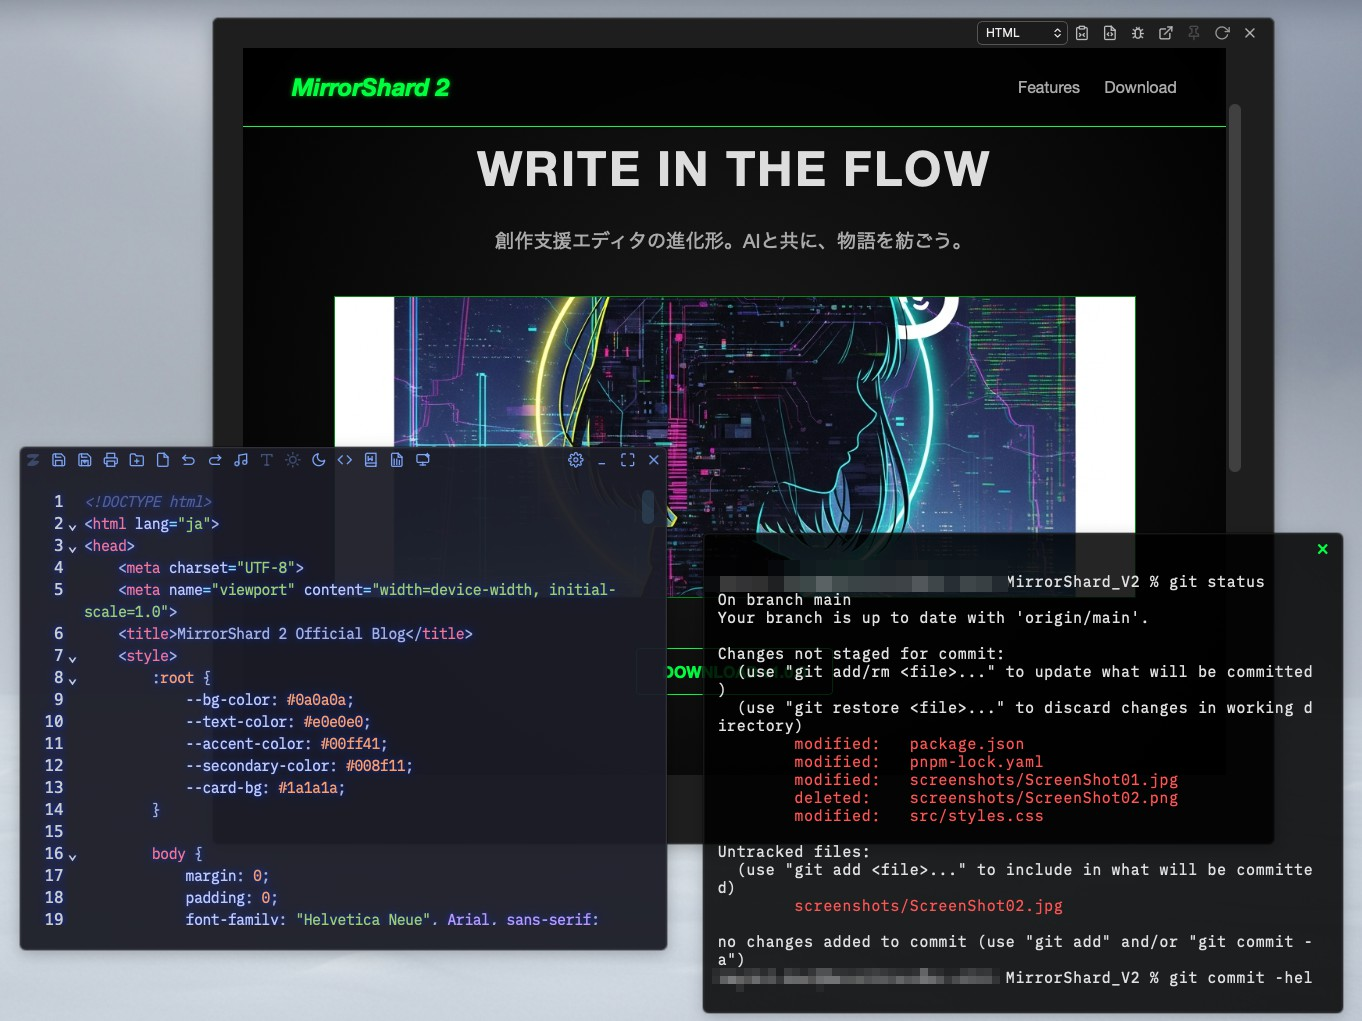
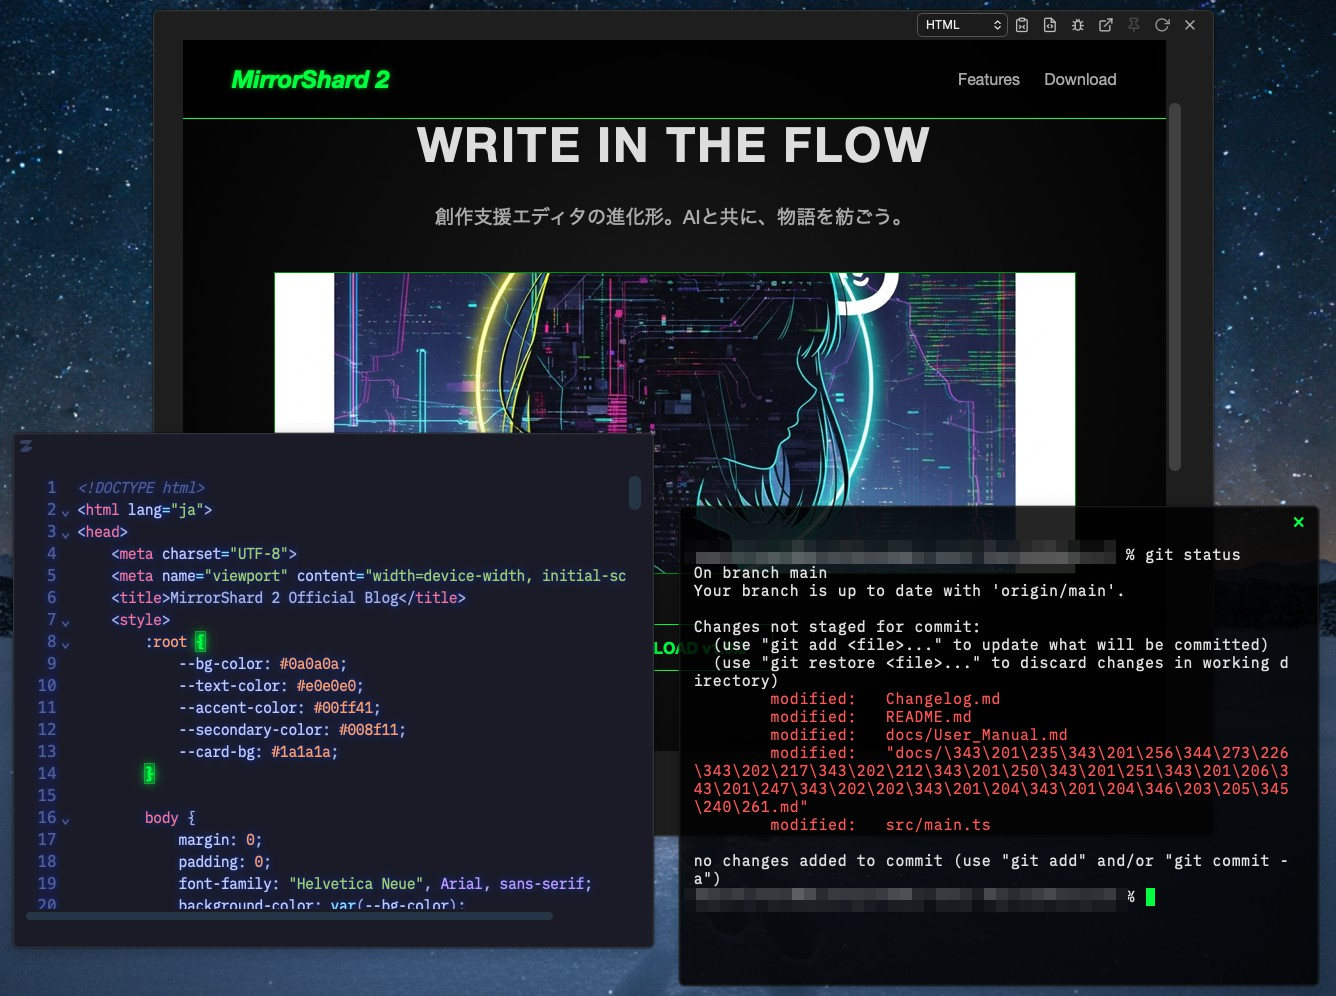
feat: Release version 1.2.0

diff --git a/src/main.ts b/src/main.ts
@@ -2249,6 +2249,47 @@ class App {
         e.stopPropagation();
       }
     }, true);
+
+    // --- 3. Safari用：スクロールバー使用時のバグ対策 ---
+    const isMac = this.currentOs === 'macos';
+    if (isMac && this.editorContainer) {
+      // キャプチャフェーズ (true) で、CodeMirrorが処理するより先に介入する
+      this.editorContainer.addEventListener('mousedown', (e) => {
+        // 左クリック以外、または Shiftキー押し(意図的な範囲選択) なら何もしない
+        if (e.button !== 0 || e.shiftKey) return;
+        if (!this.editorView) return;
+
+        // 1. スクロールバー領域のクリックなら無視
+        const scroller = this.editorView.scrollDOM;
+        const rect = scroller.getBoundingClientRect();
+        const scrollbarWidth = 18;
+        const isOnVerticalScrollbar = e.clientX >= rect.right - scrollbarWidth;
+        const isOnHorizontalScrollbar = e.clientY >= rect.bottom - scrollbarWidth;
+        if (isOnVerticalScrollbar || isOnHorizontalScrollbar) return;
+
+        // 2. ネイティブ機能でクリック位置を特定
+        if (document.caretRangeFromPoint) {
+          const range = document.caretRangeFromPoint(e.clientX, e.clientY);
+
+          if (range && this.editorView.contentDOM.contains(range.startContainer)) {
+            const clickPos = this.editorView.posAtDOM(range.startContainer, range.startOffset);
+
+            if (clickPos !== null) {
+              // Safariがバグる前に、CodeMirrorに正しいカーソル位置を強制セットする
+              this.editorView.dispatch({
+                selection: { anchor: clickPos, head: clickPos },
+                scrollIntoView: false, // 勝手なスクロールを防ぐ
+                userEvent: "select.pointer"
+              });
+
+              // Safariが保持している「古い選択状態」を念のためクリア
+              window.getSelection()?.removeAllRanges();
+            }
+          }
+        }
+      }, true);
+    }
+
   }
 
   // --- イベントハンドラ ---
@@ -2446,7 +2487,7 @@ class App {
       e.preventDefault();
       invoke('open_terminal_window');
     }
-    if (isCtrlOrCmd && key === '@' && isShift) {
+    if ((isCtrlOrCmd && key === '`' && isShift) || (isCtrlOrCmd && key === '@' && isShift)) {
       e.preventDefault();
       this.openTerminalHere();
     }

diff --git a/README.md b/README.md
@@ -1,7 +1,7 @@
-# MirrorShard 2 ver. 1.1.0  
+# MirrorShard 2 ver. 1.2.0  
 
 創作支援用テキストエディタ「MirrorShard」の改良版です。  
-ソフトウェアフレームワークをTauriに変更することで、起動の高速化とメモリ消費量の削減に成功。さらにファイルサイズは前作の20分の1程度にまで激減しています。  
+ソフトウェアフレームワークをTauriに変更することで、起動の高速化とメモリ消費量の削減に成功。さらに配布バイナリのファイルサイズは前作の30分の1程度にまで大幅に削減されています。  
 アイデアプロセッサ機能は未搭載ですが、代わりにAI機能を大幅に強化。メインウィンドウにもAI機能が搭載され、カーソル位置からの執筆、コード補完、選択範囲の要約/リライト/翻訳が可能に。  
 加えてマークダウン／HTMLプレビュー機能とコードエディタモードを追加、より汎用性の高いエディタとして生まれ変わりました。  
 
@@ -12,16 +12,16 @@
 ## ダウンロード  
 
 [![Windows](https://img.shields.io/badge/Download-Windows-blue)]  
-(https://github.com/DroicheadNua/MirrorShard_2/releases/download/v1.1.0/MirrorShard.2_1.1.0_x64_ja-JP.msi)  
+(https://github.com/DroicheadNua/MirrorShard_2/releases/download/v1.2.0/MirrorShard.2_1.2.0_x64_ja-JP.msi)  
 [![Mac (Apple Silicon)](https://img.shields.io/badge/Download-Mac_(Apple_Silicon)-green)]  
-(https://github.com/DroicheadNua/MirrorShard_2/releases/download/v1.1.0/MirrorShard.2_1.1.0_aarch64.dmg)  
+(https://github.com/DroicheadNua/MirrorShard_2/releases/download/v1.2.0/MirrorShard.2_1.2.0_aarch64.dmg)  
 
 または、[最新のリリース一覧ページ](https://github.com/DroicheadNua/MirrorShard_2/releases/latest)からダウンロードできます。  
 最下段の「Assets」の項目が折りたたまれている場合は、▶マークを押して展開してください。    
 
 ## 既知の問題 (Known Issues)  
 
-現在、v1.1.0において以下の問題が確認されています。  
+現在、v1.2.0において以下の問題が確認されています。  
 
 ### Windows版  
 - ATOK 2017などの旧バージョンのATOKを使用している環境において、変換中のアンダーラインや文節区切りが表示されない現象が確認されています。  
@@ -29,7 +29,7 @@
   （※最新のATOKサブスクリプション版での動作は未検証です）  
 
 ### Mac版  
-- 広範囲を範囲選択したとき、選択範囲の表示が若干不自然になることがあります。また、Ctrl+Aでファイル全体が正しく選択できない場合があります。  
+- スクロールバーを使用して広範囲を範囲選択すると、挙動がおかしくなります。  
 
 ## トラブルの際には  
 　インストールやご使用などにつきまして、何か疑問の点等ございましたら「FAQ.md」を御覧ください。  
@@ -79,6 +79,7 @@ mirrorshard.dev@gmail.com
 ・選択範囲の文字数カウント機能を追加  
 ・AIチャット機能がOllamaにも対応。またLAN接続にも対応  
 ・降雪エフェクトがメインエディタに適用されるようになった  
+・右クリックメニューから、選択中のファイルのあるフォルダを開けるように  
 
 ・アイデアプロセッサには未対応。最終的には既存の全機能を移植する予定  
 
@@ -105,7 +106,6 @@ Linux版はグラフィック環境由来（特にNvidia製グラフィックボ
 
 *   **Windows / macOS:**  
     *   設定画面から任意の音楽ファイル（mp3/wav/ogg）を指定して再生する場合、ストリーミング再生となるため**メモリ消費は最小限**に抑えられます。  
-    *   デフォルトのBGMはアプリ内に埋め込まれているため、読み込み時に若干のCPU負荷がかかります。  
 *   **Linux (Raspberry Pi含む):**  
     *   OSの制限により、音楽データをすべてメモリ上に展開して再生します。そのため、**BGM使用時はメモリ消費量が増加します。**  
     *   特にRaspberry Pi等の低スペック環境でメモリ不足を感じる場合は、BGMをオフにすることをお勧めします。  
@@ -115,11 +115,10 @@ Linux版はグラフィック環境由来（特にNvidia製グラフィックボ
 　Imagen 4 による生成  
 
 ・BGM  
-　Pixabay https://pixabay.com より  
-　・ambient piano "Candrika" -Moonlight-（leela_takaki様）  
+　ACE-Stepによる生成  
 
 ・Tokyo Night  Color Scheme（Enkia様）(https://github.com/enkia/tokyo-night-vscode-theme)  
-　システムテーマの一つとしてお借りした他、コードエディターモードの配色もこちらをベースに調整しました。  
+　システムテーマの一つとしてお借りした他、コードエディターモードの配色もこちらをベースにしています。  
 
 ## ご利用にあたっての注意（免責事項）  
 このソフトウェアはフリーウェアであり、無保証（AS IS）で提供されます。  
@@ -134,7 +133,7 @@ Linux版はグラフィック環境由来（特にNvidia製グラフィックボ
 https://github.com/hundredrabbits/Left  
 から多くの影響を受けています。特にアウトライン機能はLeftのソースコードを参考にしています。  
 
-　なお、本ソフトウェアのコードの大半はGemini（2.5 proおよび3 pro preview）君が書いてくれました。ありがとうGemini君。  
+　なお、本ソフトウェアのコードの大半はGemini君が書いてくれました。開発当初2.5 proだったGemini君も3 pro preview、3.1 pro previewと進化していき、開発も少しずつ楽になっていった気がします。ありがとうGemini君。  
 
 　Copyright (c) 2025-2026 [DroicheadNua]  
 　mirrorshard.dev@gmail.com  

diff --git a/Changelog.md b/Changelog.md
@@ -5,12 +5,13 @@ All notable changes to this project will be documented in this file.
 The format is based on [Keep a Changelog](https://keepachangelog.com/en/1.0.0/),
 and this project adheres to [Semantic Versioning](https://semver.org/spec/v2.0.0.html).
 
-## [1.2.0] - 2026-2-XX  
+## [1.2.0] - 2026-2-22  
 
 ### Added (新機能)  
 - コードエディタモードの行折り返し設定を実装  
 - 簡易フォーマッタを実装（Alt+Shift+F、コードエディタモードのみ）  
-- メインエディタの右クリックメニューに「この場所でフォルダを開く (Open Folder Here)」を追加  
+- メインエディタの右クリックメニューに「この場所でフォルダを開く (Open Folder Here)」を追加（Ctrl + Shift + O）  
+- 「この場所でターミナルを開く (Open Terminal Here)」がショートカットに対応（Ctrl + Shift + @）  
 
 ### Changed (変更点)    
 - Tauriのバージョンを2.9.3から2.10.2にアップデート  
